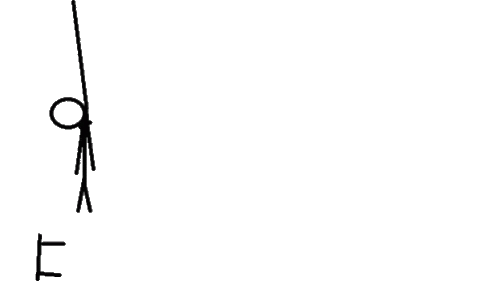
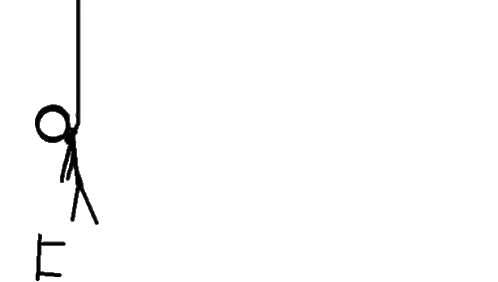
image updates on score, continue function needs to work

Changed region(s): [[0.0602, 0.0, 0.2108, 0.7943]]

diff --git a/js/script.js b/js/script.js
@@ -102,6 +102,10 @@ function lose() {
 }
 
 function updateHangmanImage() {
+     
+    document.getElementById('hangman').src = `transparent stickman/img${mistakes + 1}.png`
+
+
     console.log("Update the hangman image to reflect wrong guess")
 }
 
@@ -140,7 +144,7 @@ function reset() {
     chooseWord();
     guessedWord();
     generateKeyboardButtons();
-
+    updateHangmanImage();
     updateMistakes();
     updateScore();
     updateLives();

diff --git a/index.html b/index.html
@@ -31,7 +31,7 @@
 
         <div class="hangman-display">
             <div class="game-image">
-                <img src="images/sample-hangman.png" alt="hangman pictures">
+                <img id ='hangman' src="transparent stickman\img1.png" alt="hangman pictures">
             </div>
         </div>
 
